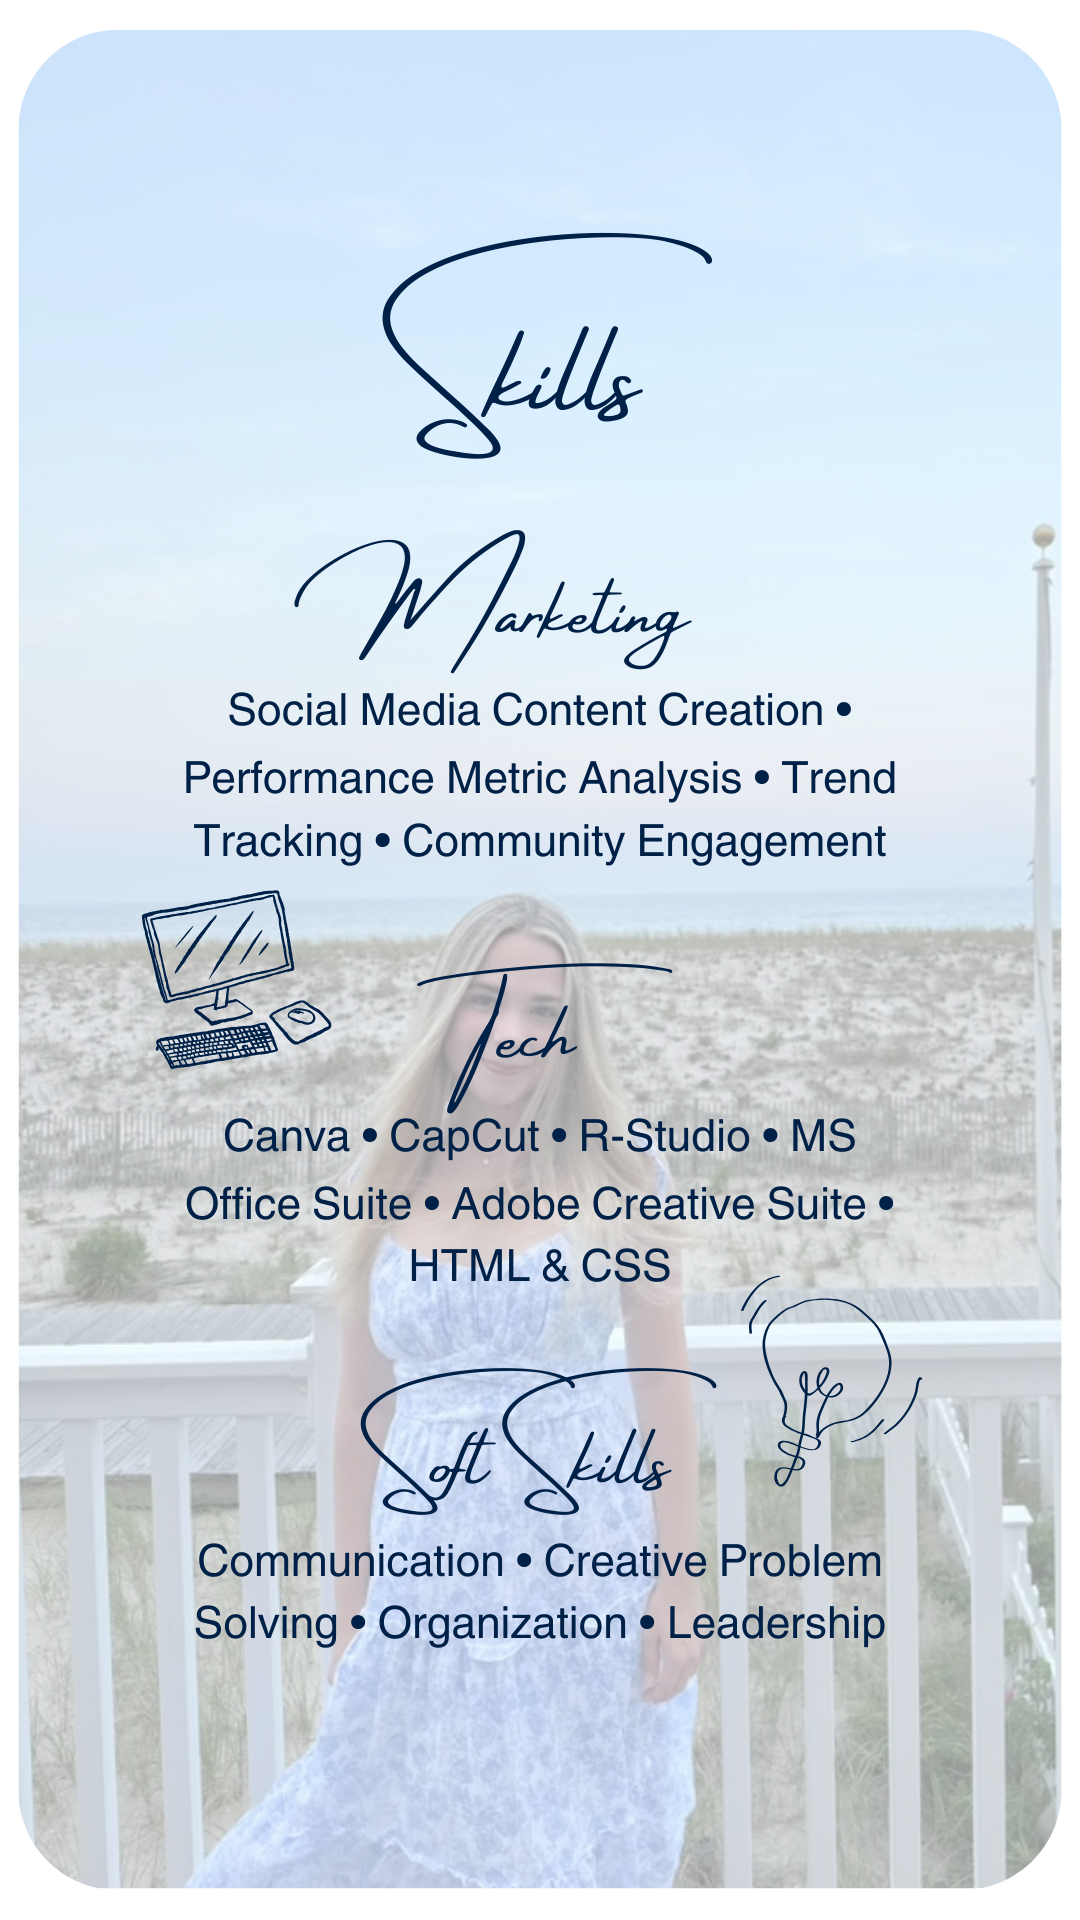
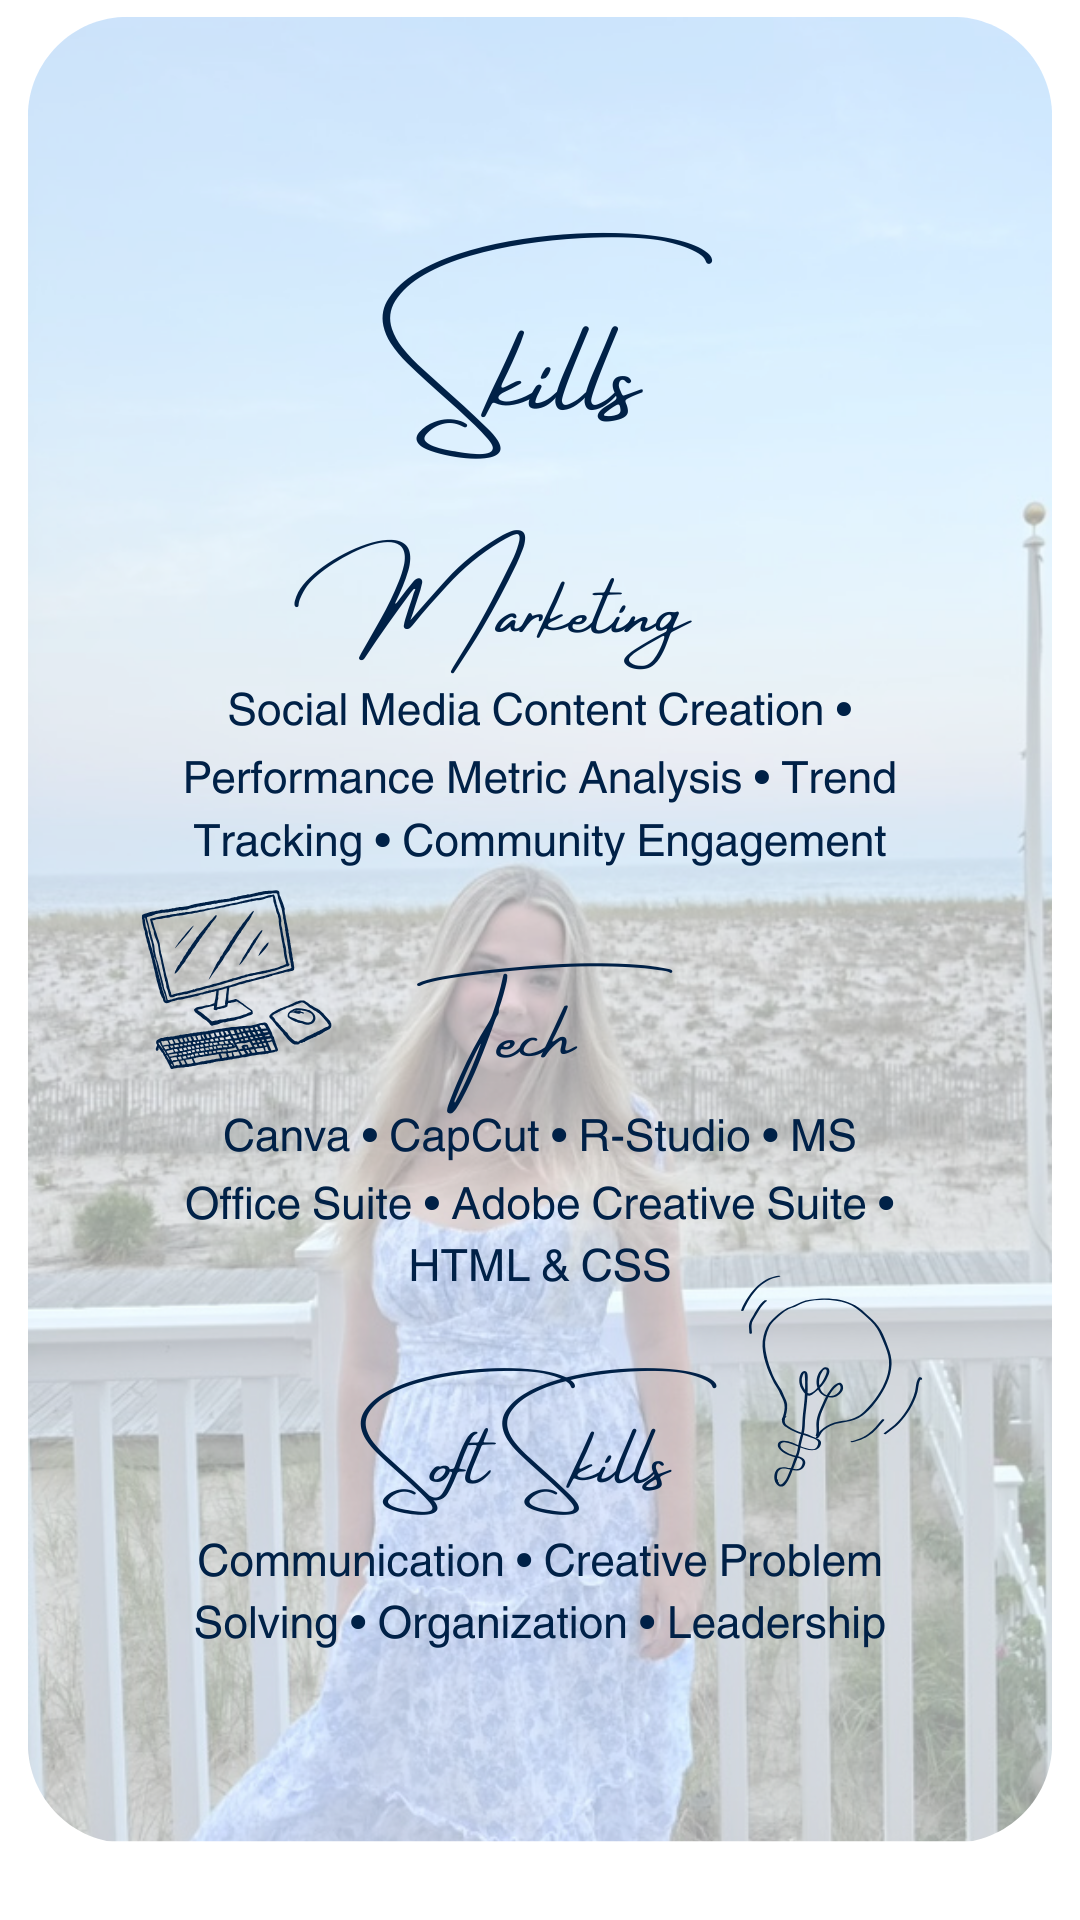
Many Changes

diff --git a/src/Portfolio.css b/src/Portfolio.css
@@ -160,16 +160,18 @@ body {
 /* progress bar row at the very top */
 .story-progress {
   position: absolute;
-  top: 0.75rem;
-  left: 0.75rem;
-  right: 0.75rem;
+  top: 1.35rem;
+  left: 50%;
+  transform: translateX(-50%);
+  width: 82%;
+  max-width: 320px;   /* optional but nice */
   display: flex;
-  gap: 0.25rem;
+  gap: 0.2rem;
   z-index: 10;
 }
 
 .progress-bar {
-  height: 2px;
+  height: 1.5px;
   flex: 1;
   background: rgba(255, 255, 255, 0.3);
   border-radius: 9999px;
@@ -184,8 +186,8 @@ body {
 .story-header {
   position: absolute;
   top: 2rem;
-  left: 0.75rem;
-  right: 0.75rem;
+  left: 2rem;
+  right: auto;
   display: flex;
   align-items: center;
   gap: 0.5rem;
@@ -664,33 +666,11 @@ body {
 
   /* prevents weird rendering seams */
   transform: translateZ(0);
-  background: #000;
+  background: transparent;
 }
 
 /* Make the image layer fill the whole card */
 .story-image {
   position: absolute;
   inset: 0;
-}
-
-/* Image fills and respects clipping */
-.story-image-file {
-  width: 100%;
-  height: 100%;
-  object-fit: cover;
-  display: block;
-}
-
-.story-card::after {
-  content: "";
-  position: absolute;
-  inset: 0;
-  pointer-events: none;
-  border-radius: inherit;
-
-  background: linear-gradient(
-    to bottom,
-    rgba(0,0,0,0) 70%,
-    rgba(0,0,0,0.25) 100%
-  );
 }
